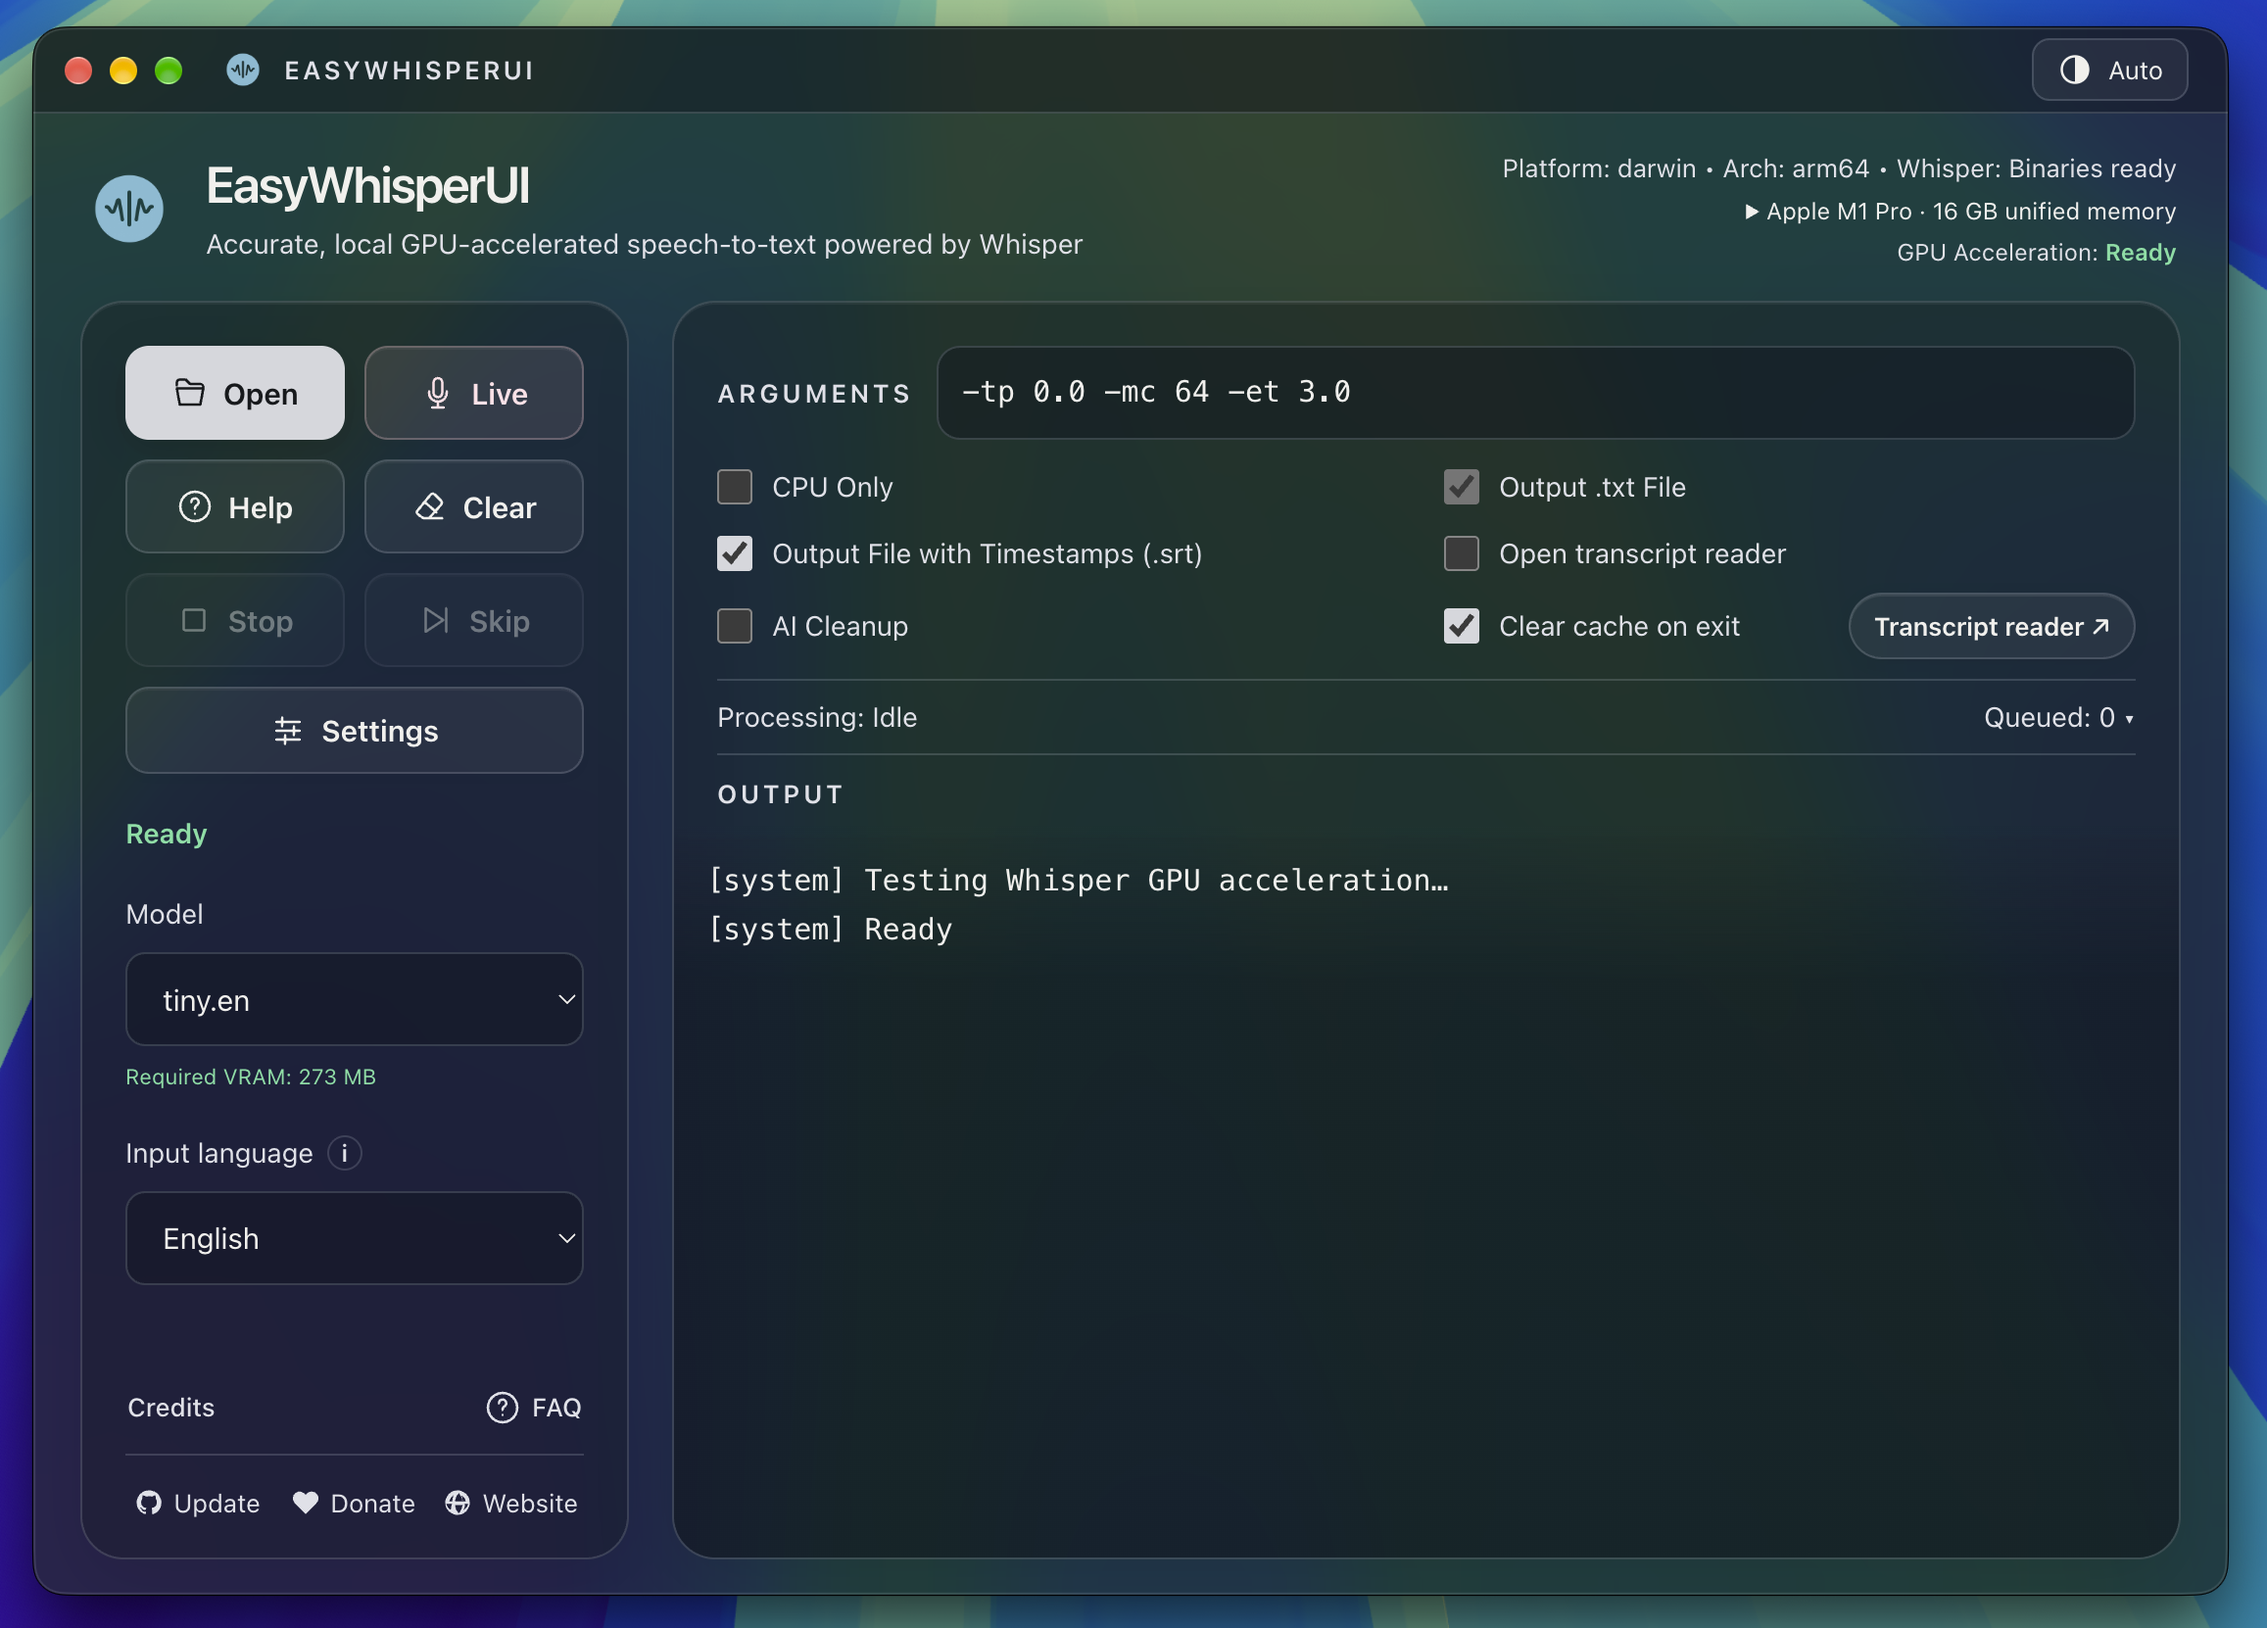
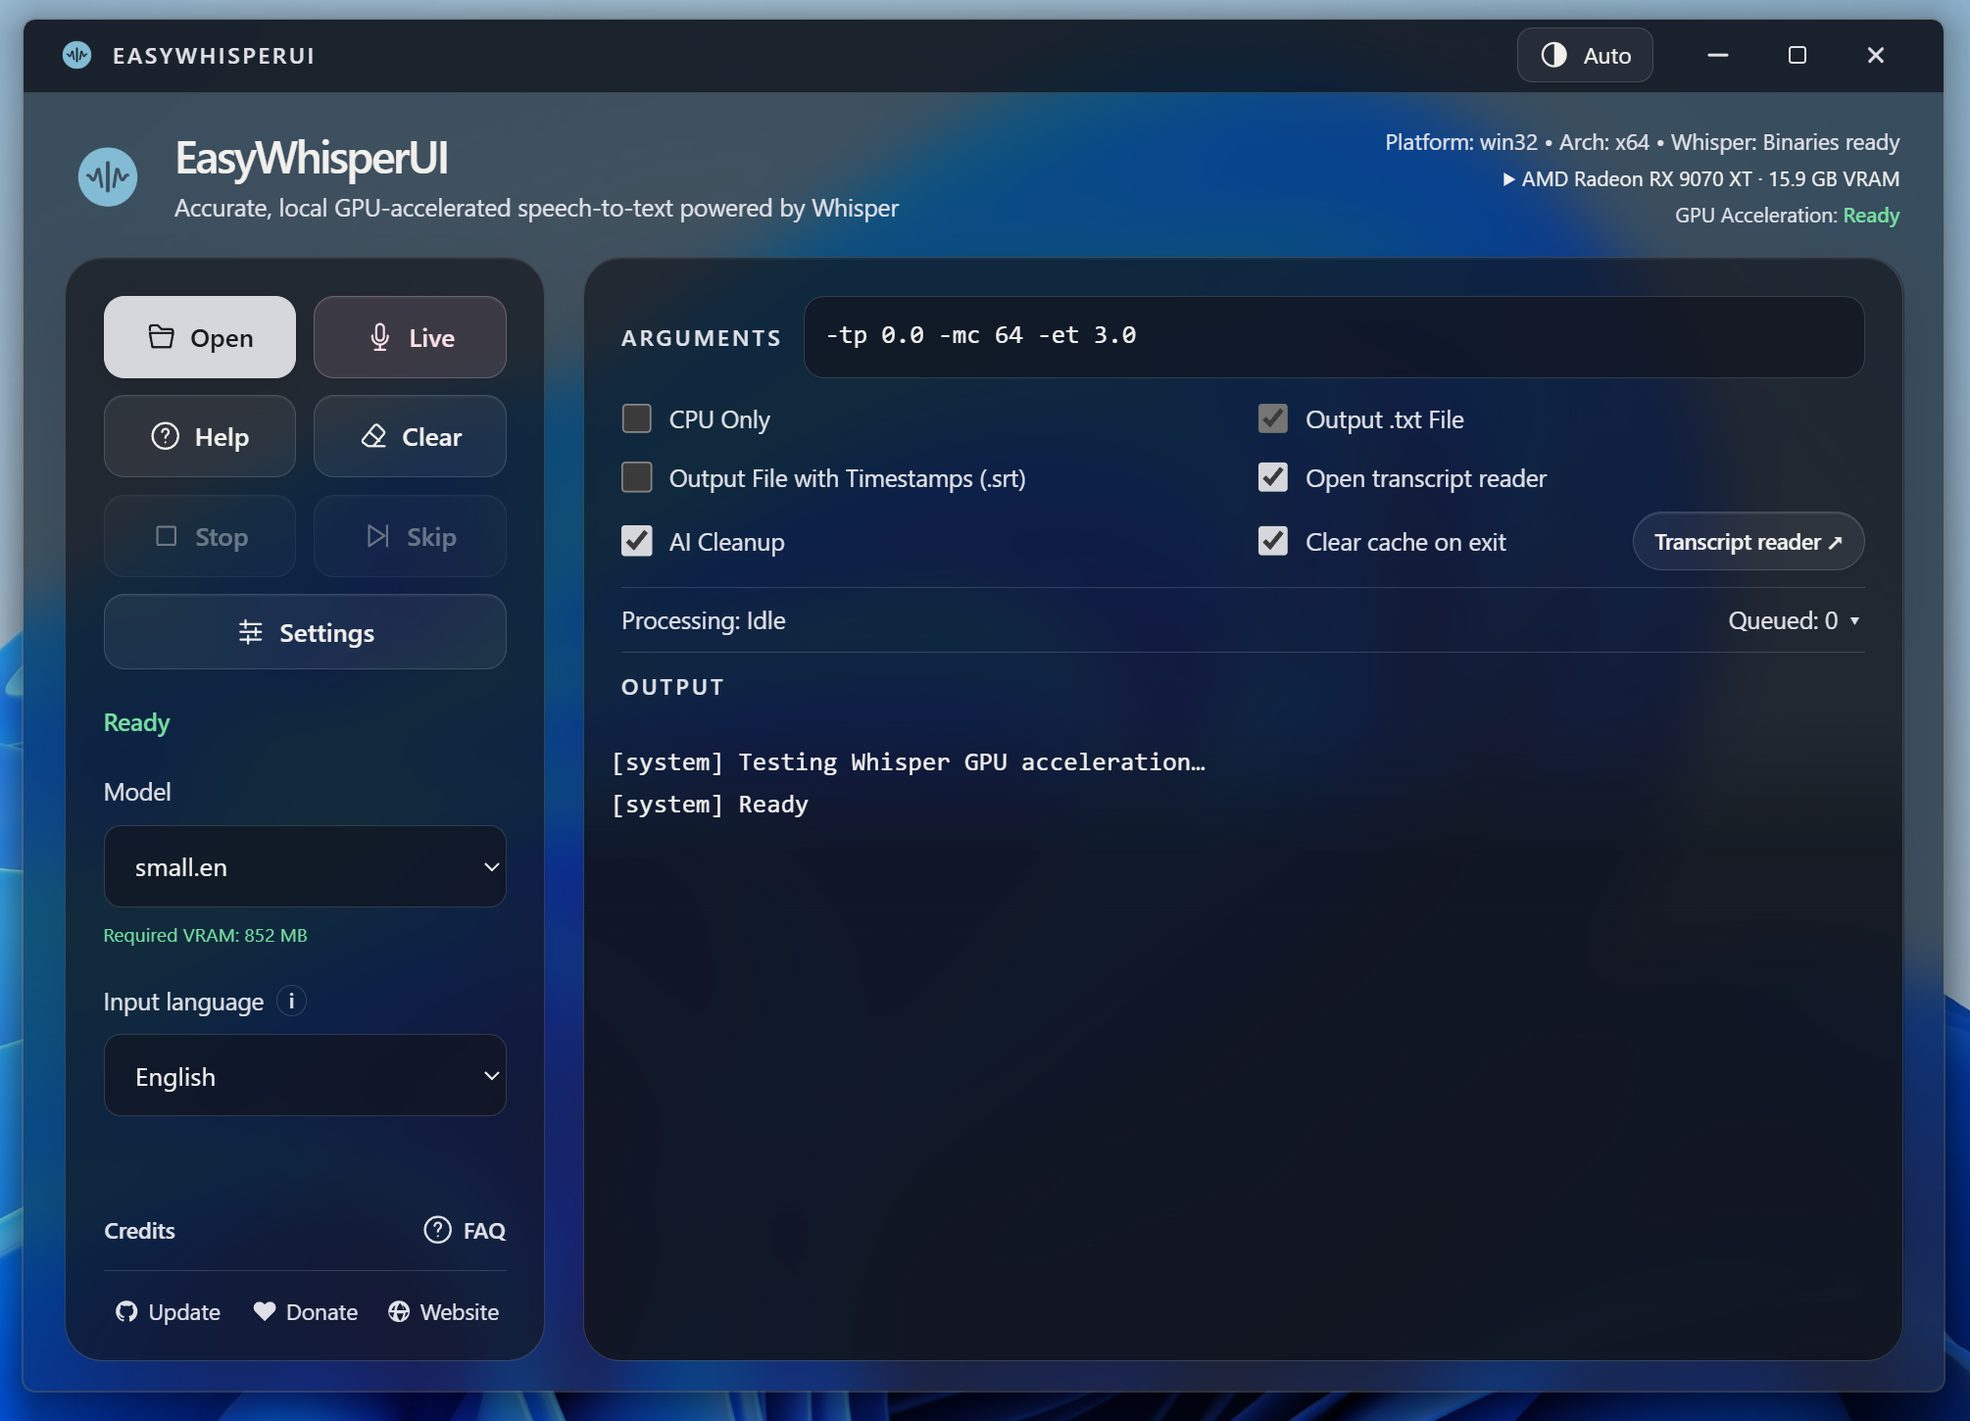
Update Windows download docs and main window preview

Changed region(s): [[0.0, 0.0, 1.0, 1.0]]

diff --git a/docs/releases/v3.2.0.md b/docs/releases/v3.2.0.md
@@ -57,7 +57,7 @@ EasyWhisperUI 3.2 brings a new real-time Transcript Reader and **Local AI Summar
 
 ## Installation
 
-- **Windows:** the v3.2.0 installer is pending. The [previous v3.1 Windows installer](https://github.com/mehtabmahir/easy-whisper-ui/releases/download/v3.1/EasyWhisperUI-Setup-3.1.0-win-x64.exe) remains available.
+- **Windows:** download the [3.2.0 x64 installer](https://github.com/mehtabmahir/easy-whisper-ui/releases/download/v3.2.0/EasyWhisperUI-Setup-3.2.0-win-x64.exe) and run it.
 - **macOS:** download [EasyWhisperUI-3.2.0-macOS-arm64.dmg](https://github.com/mehtabmahir/easy-whisper-ui/releases/download/v3.2.0/EasyWhisperUI-3.2.0-macOS-arm64.dmg). Open the DMG and drag `EasyWhisperUI.app` into `Applications`.
 - **Linux:** 3.2 downloads remain pending.
 
@@ -92,8 +92,6 @@ EasyWhisperUI 3.2 brings a new real-time Transcript Reader and **Local AI Summar
 - The macOS app is ad-hoc signed and not notarized. macOS may block it on first opening; use the steps below.
 - Linux support remains beta (previously tested on Ubuntu); Linux in-app updates are not included.
 - In-app updates require a published stable release with a matching installer and valid verification information. Draft and prerelease releases do not trigger the update prompt. Older public builds without the updater need a manual upgrade first.
-- This release currently provides a macOS installer only. Windows packaging and installer testing are pending.
-
 ### macOS first opening
 
 1. **Drag `EasyWhisperUI.app` into `Applications`.**

diff --git a/electron/README.md b/electron/README.md
@@ -2,6 +2,10 @@
 
 This folder contains the **Electron-based desktop app** for EasyWhisperUI.
 
+## Development requirements
+
+Use **Node.js 22.12 or newer** and npm. Run `npm install` in this folder before building or starting development.
+
 ## Overview
 
 The app is split into three layers:
@@ -218,7 +222,10 @@ Whisper's successful transcription as failed.
 The default is **On this device**: Qwen2.5-1.5B-Instruct Q4_K_M through
 node-llama-cpp. First use downloads 1.12 GB from the official Qwen repository at a
 pinned revision and verifies SHA-256; later runs are offline. The runtime selects
-available GPU acceleration, with CPU fallback. No Python or separately running
+available GPU acceleration, with CPU fallback. On Windows, local AI selects Vulkan
+when available and falls back to CPU; CUDA is excluded from runtime selection and
+the Windows CUDA packages are excluded from the installer. macOS retains its
+existing backend selection. No Python or separately running
 model server is needed. Models are stored in the app's
 `whisper-workspace/cleanup-models` folder. Build on each target platform with its
 native npm dependencies; native binaries must remain outside ASAR. macOS, Windows,

diff --git a/README.md b/README.md
@@ -14,7 +14,7 @@ EasyWhisperUI brings local Whisper transcription, a real-time **Transcript Reade
 
 | Platform | Requirements | Download |
 | --- | --- | --- |
-| Windows | Windows 10/11, x64 | [3.1.0 installer — 3.2 pending](https://github.com/mehtabmahir/easy-whisper-ui/releases/download/v3.1/EasyWhisperUI-Setup-3.1.0-win-x64.exe) |
+| Windows | Windows 10/11, x64 | [3.2.0 installer](https://github.com/mehtabmahir/easy-whisper-ui/releases/download/v3.2.0/EasyWhisperUI-Setup-3.2.0-win-x64.exe) |
 | macOS | macOS 13+, Apple Silicon | [3.2.0 DMG](https://github.com/mehtabmahir/easy-whisper-ui/releases/download/v3.2.0/EasyWhisperUI-3.2.0-macOS-arm64.dmg) |
 | Linux | Beta; tested on Ubuntu | 3.2 pending; [previous releases](https://github.com/mehtabmahir/easy-whisper-ui/releases) |
 
